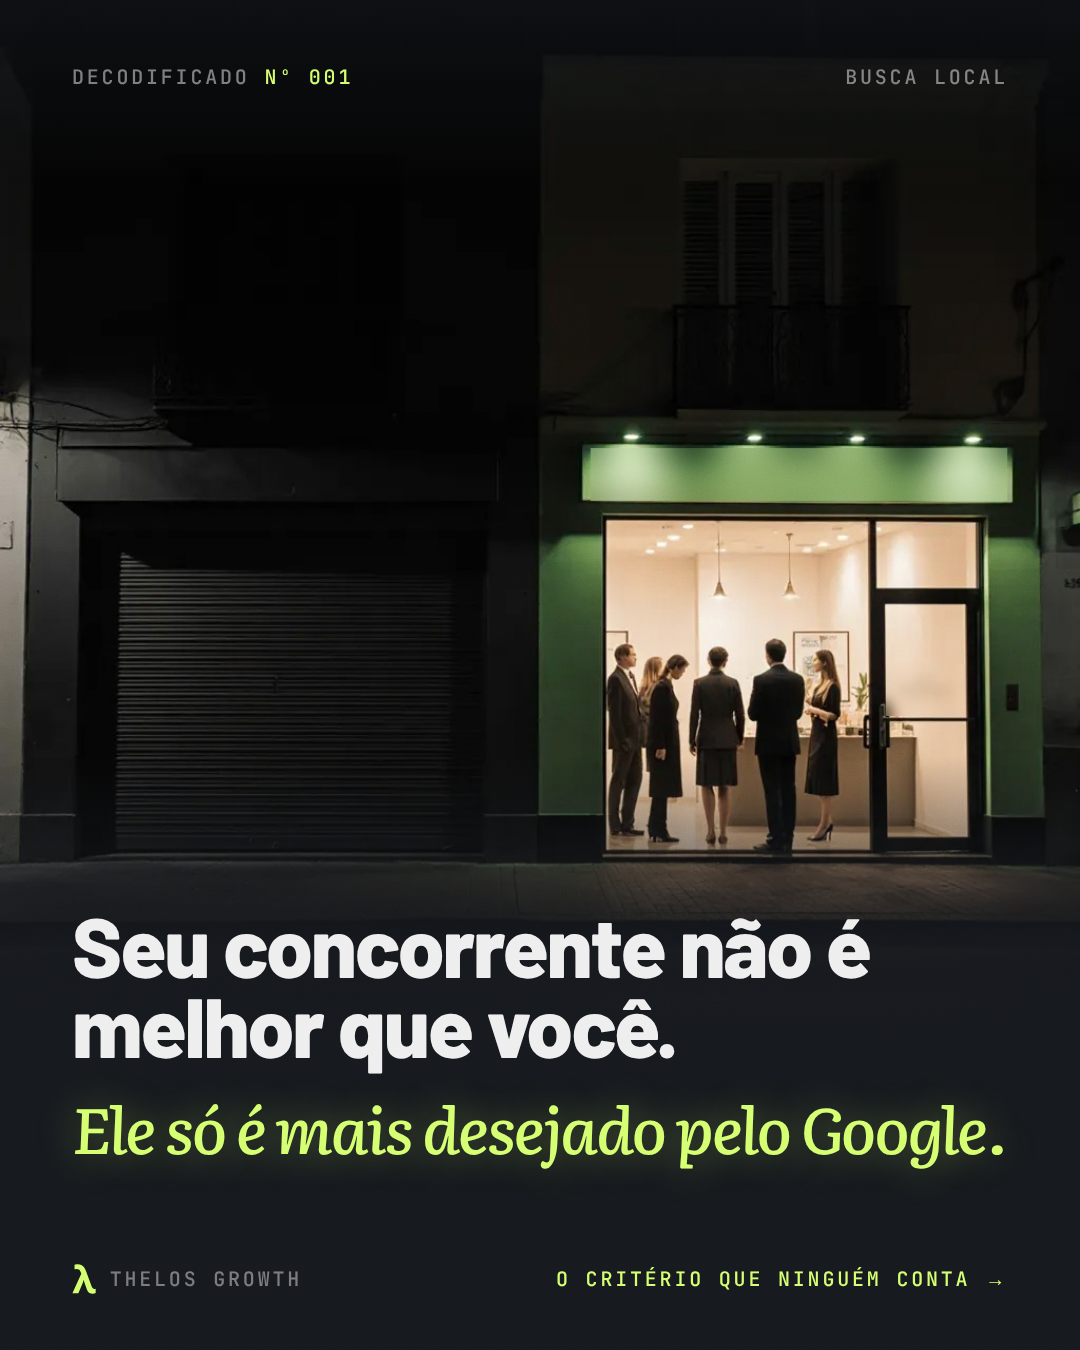
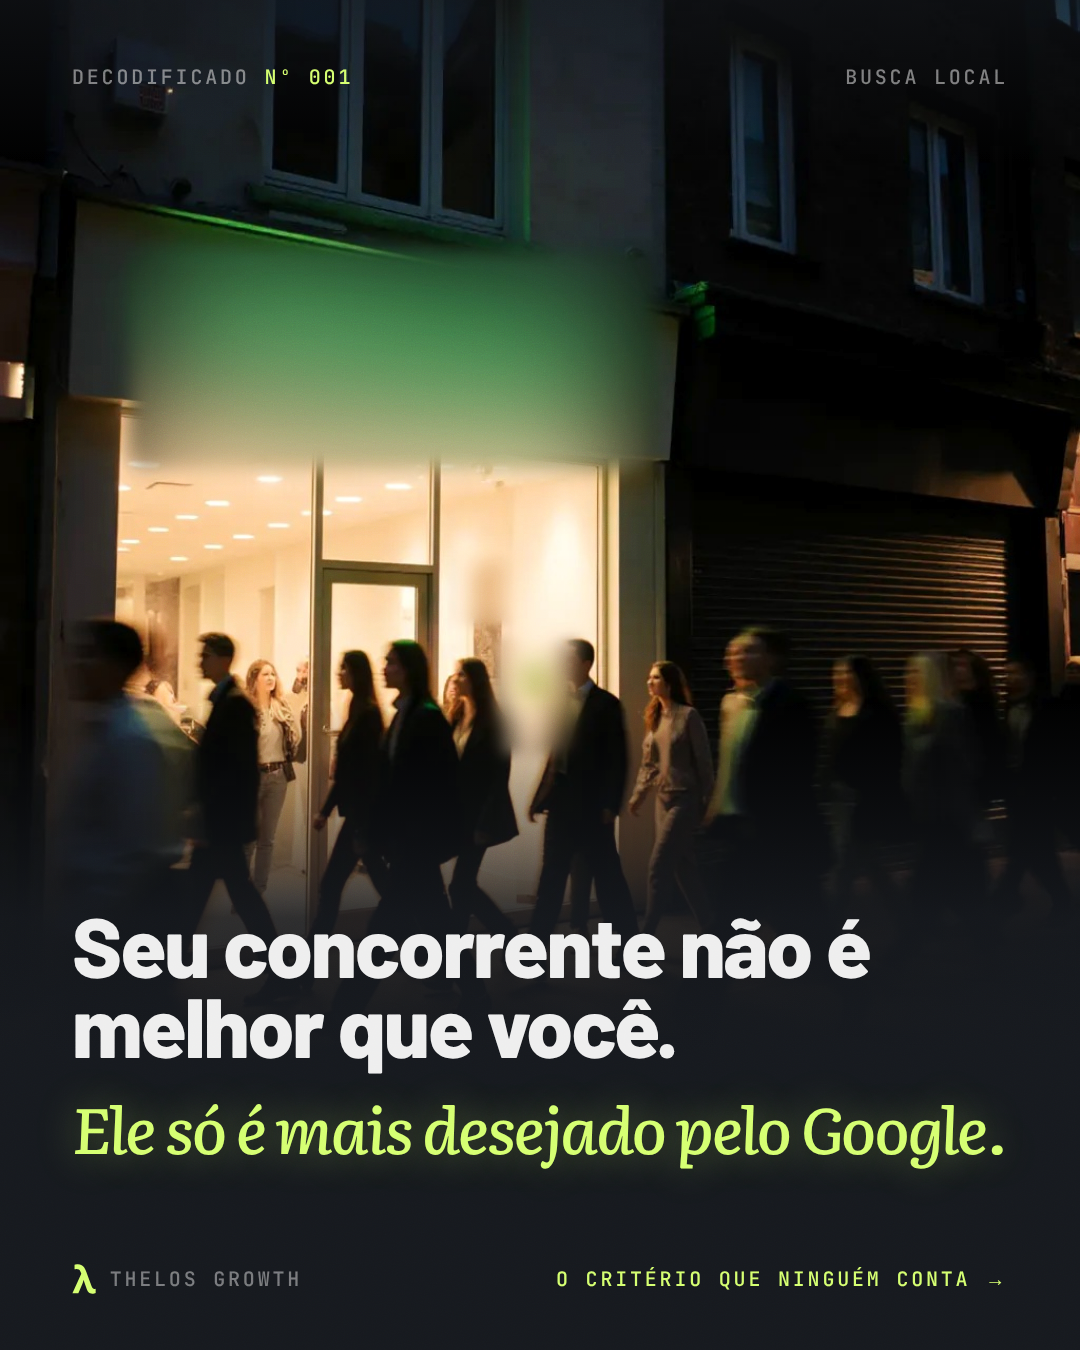
Capa com mais energia
Claude-Session: https://claude.ai/code/session_01WuL6qQPsUhcM4cowxH4Nkt

diff --git a/_fonte/2026-11-03-decodificado-001/post.html b/_fonte/2026-11-03-decodificado-001/post.html
@@ -34,8 +34,8 @@ h1,h2{font-family:B;font-weight:800;letter-spacing:-.025em;line-height:.95}
 
 <!-- 1 CAPA -->
 <section class="s noise" id="s1">
-  <div style="left:0;right:0;top:-170px;height:1350px;background:url(img/fachadas.jpg) center top/1080px auto no-repeat"></div>
-  <div style="inset:0;background:linear-gradient(180deg,rgba(22,25,30,.6) 0%,rgba(22,25,30,0) 14%,rgba(22,25,30,0) 56%,rgba(22,25,30,.92) 70%,#16191e 78%)"></div>
+  <div style="left:0;right:0;top:-40px;height:1390px;background:url(img/energia.jpg) center top/1080px auto no-repeat"></div>
+  <div style="inset:0;background:linear-gradient(180deg,rgba(22,25,30,.55) 0%,rgba(22,25,30,0) 12%,rgba(22,25,30,0) 52%,rgba(22,25,30,.9) 68%,#16191e 78%)"></div>
   <div class="mono head"><span>Decodificado <b>Nº 001</b></span><span>Busca local</span></div>
   <h1 style="z-index:5;left:72px;right:72px;top:905px;font-size:84px">Seu concorrente não é melhor que você.</h1>
   <div class="it hl glow" style="z-index:5;left:72px;right:72px;top:1095px;font-size:64px;line-height:1">Ele só é mais desejado pelo Google.</div>
